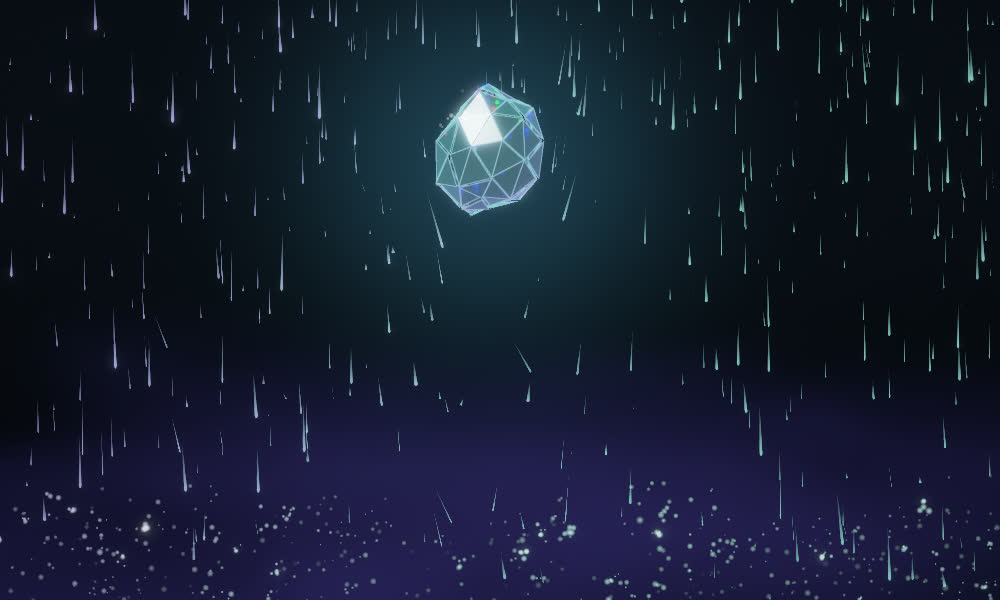
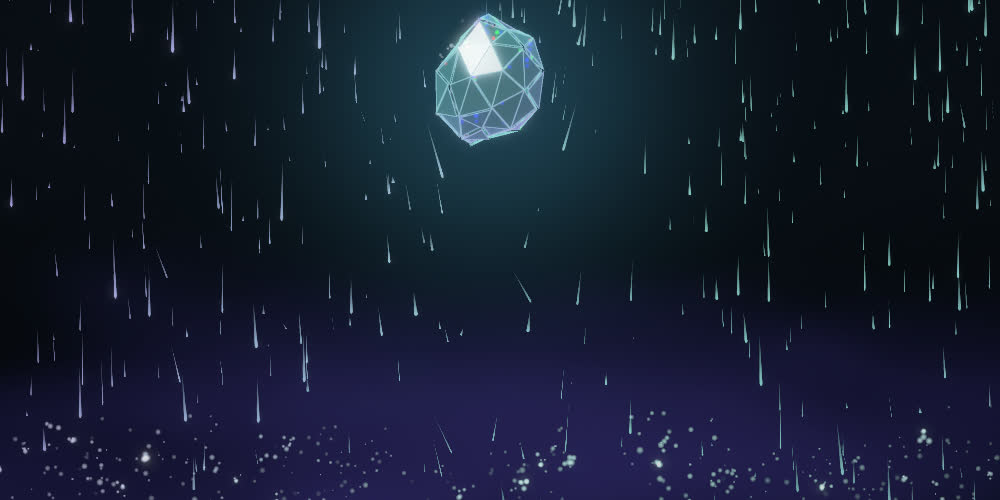
README: the example's frame at 2:1, and plainer words for packing

diff --git a/README.md b/README.md
@@ -51,8 +51,8 @@ bun install
 bun run dev         # the lab at http://127.0.0.1:3031/lab/
 ```
 
-To use it in a project before it is published, build the package here and install the file that
-makes:
+To use it in a project before it is published, build and pack it here, then install the file
+from your project:
 
 ```sh
 bun run build:lib   # JavaScript and type declarations in lib/
